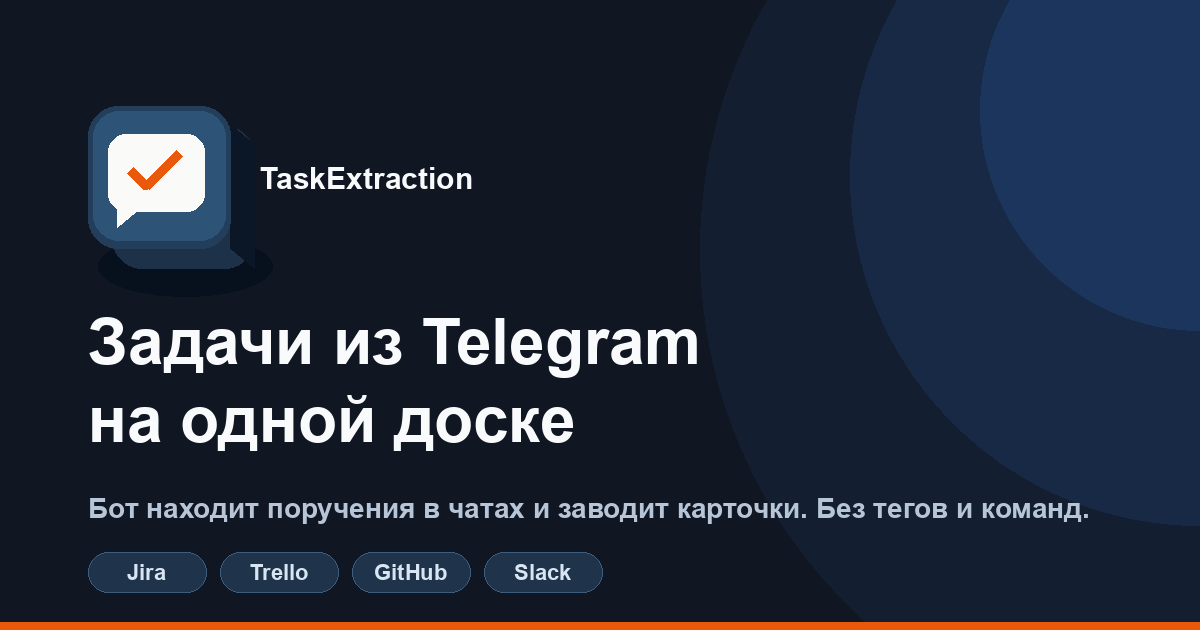
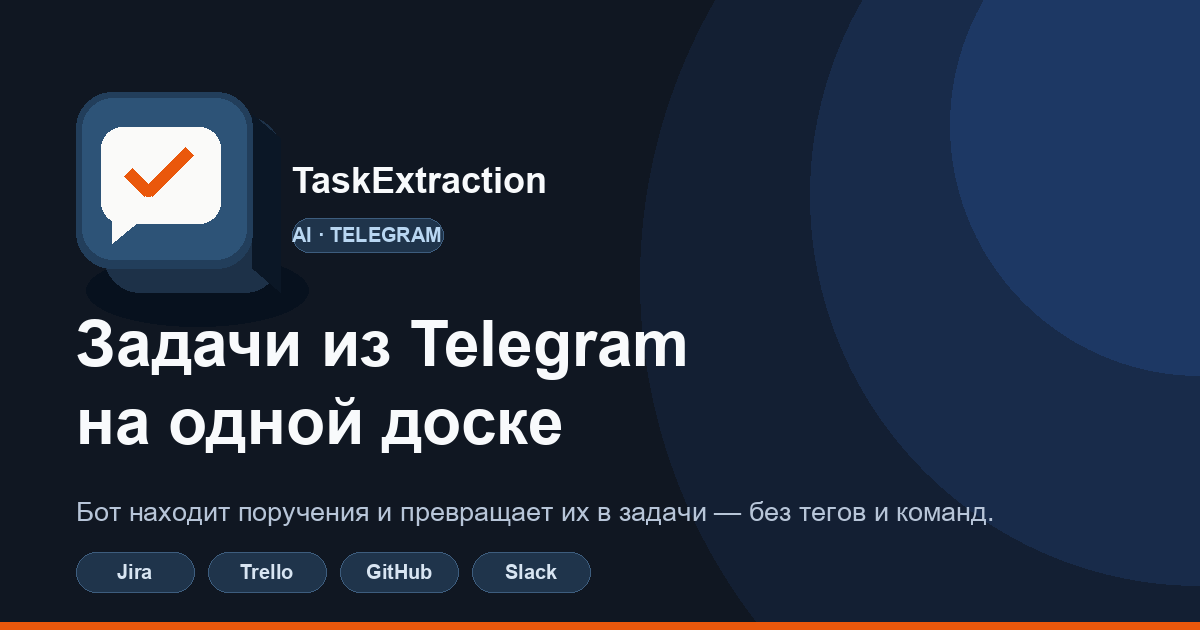
fix: improve Telegram link preview

diff --git a/frontend/seo.config.ts b/frontend/seo.config.ts
@@ -26,7 +26,9 @@ export const SEO = {
     "telegram задачи, извлечение задач, kanban, jira, trello, slack, github issues, llm, поддержка, taskextraction, ai task manager",
 
   welcomePath: "/",
-  ogImagePath: "/og-image.png",
+  // Версия URL заставляет мессенджеры запросить обновлённую карточку, а не взять
+  // старый вариант из собственного кэша.
+  ogImagePath: "/og-image.png?v=2",
   ogImageWidth: 1200,
   ogImageHeight: 630,
   ogImageAlt: "TaskExtraction: задачи из Telegram на одной доске",

diff --git a/frontend/src/pages/LandingPage.tsx b/frontend/src/pages/LandingPage.tsx
@@ -106,6 +106,7 @@ export function LandingPage({ onTry, onHome }: Props) {
                   {link.label}
                 </a>
               ))}
+              <a href="/blog/">{t.nav.blog}</a>
             </nav>
             <div className="lnd-nav__end">
               <ThemeSwitch className="lnd-theme" />
@@ -166,6 +167,7 @@ export function LandingPage({ onTry, onHome }: Props) {
           <span>
             © {new Date().getFullYear()} {t.footer.rights}
           </span>
+          <a href="/blog/">{t.nav.blog}</a>
           <a href="/privacy">{t.footer.privacy}</a>
         </footer>
       </div>

diff --git a/frontend/src/i18n/locales/landing.ru.ts b/frontend/src/i18n/locales/landing.ru.ts
@@ -4,6 +4,7 @@ export const landingRu = {
     example: "Пример",
     setup: "Подключение",
     faq: "Вопросы",
+    blog: "Блог",
     homeTitle: "На главную",
   },
   cta: {

diff --git a/frontend/src/i18n/locales/landing.en.ts b/frontend/src/i18n/locales/landing.en.ts
@@ -6,6 +6,7 @@ export const landingEn: LandingMessages = {
     example: "Example",
     setup: "Setup",
     faq: "Questions",
+    blog: "Blog",
     homeTitle: "Home",
   },
   cta: {

diff --git a/frontend/scripts/generate-og-image.py b/frontend/scripts/generate-og-image.py
@@ -1,5 +1,5 @@
 #!/usr/bin/env python3
-"""Генерирует public/og-image.png (1200×630) для Open Graph / Telegram / WhatsApp."""
+"""Генерирует чёткое public/og-image.png (1200×630) для превью ссылок."""
 
 from pathlib import Path
 
@@ -9,15 +9,23 @@ W, H = 1200, 630
 OUT = Path(__file__).resolve().parent.parent / "public" / "og-image.png"
 
 FONT_CANDIDATES = [
-    "/System/Library/Fonts/Supplemental/Arial Bold.ttf",
-    "/System/Library/Fonts/Helvetica.ttc",
+    # font-dejavu устанавливается в Docker-образ. У него есть кириллица, в отличие
+    # от стандартного bitmap fallback Pillow, который превращает её в квадраты.
     "/usr/share/fonts/truetype/dejavu/DejaVuSans-Bold.ttf",
     "/usr/share/fonts/truetype/dejavu/DejaVuSans.ttf",
+    "/System/Library/Fonts/Supplemental/Arial Bold.ttf",
+    "/System/Library/Fonts/Supplemental/Arial Unicode.ttf",
+    "/System/Library/Fonts/Helvetica.ttc",
 ]
 
 
 def load_font(size: int, bold: bool = False) -> ImageFont.FreeTypeFont | ImageFont.ImageFont:
-    paths = FONT_CANDIDATES if bold else FONT_CANDIDATES[2:] + FONT_CANDIDATES[:2]
+    paths = FONT_CANDIDATES if bold else [
+        "/usr/share/fonts/truetype/dejavu/DejaVuSans.ttf",
+        "/System/Library/Fonts/Supplemental/Arial Unicode.ttf",
+        "/System/Library/Fonts/Supplemental/Arial.ttf",
+        *FONT_CANDIDATES,
+    ]
     for path in paths:
         p = Path(path)
         if p.exists():
@@ -32,8 +40,8 @@ def main() -> None:
     img = Image.new("RGB", (W, H), "#101722")
     draw = ImageDraw.Draw(img)
 
-    # Subtle depth behind the card, matching the layered 3D app icon.
-    for radius, alpha in ((500, 18), (350, 26), (220, 34)):
+    # Мягкая глубина фона в стилистике 3D-иконки приложения.
+    for radius, alpha in ((560, 20), (390, 30), (250, 38)):
         glow = Image.new("RGBA", (W, H), (0, 0, 0, 0))
         glow_draw = ImageDraw.Draw(glow)
         glow_draw.ellipse((W - radius, -radius // 2, W + radius, radius * 1.5), fill=(59, 130, 246, alpha))
@@ -41,35 +49,37 @@ def main() -> None:
         draw = ImageDraw.Draw(img)
 
     # Static rendition of AppIcon3D: back tile, front tile, bubble and check.
-    x, y, s = 88, 106, 142
-    draw.ellipse((x + 10, y + 130, x + s + 42, y + s + 48), fill="#07111e")
-    draw.rounded_rectangle((x + 24, y + 20, x + s + 24, y + s + 20), radius=30, fill="#1d3148")
-    draw.polygon([(x + s, y + 18), (x + s + 24, y + 38), (x + s + 24, y + s + 20), (x + s, y + s)], fill="#0b1726")
-    draw.rounded_rectangle((x, y, x + s, y + s), radius=30, fill="#223e5b")
-    draw.rounded_rectangle((x + 5, y + 5, x + s - 5, y + s - 8), radius=26, fill="#2d5377")
-    draw.rounded_rectangle((x + 20, y + 28, x + 116, y + 105), radius=18, fill="#fafaf9")
-    draw.polygon([(x + 29, y + 94), (x + 29, y + 121), (x + 53, y + 101)], fill="#fafaf9")
-    draw.line([(x + 42, y + 64), (x + 58, y + 80), (x + 91, y + 47)], fill="#ea580c", width=9, joint="curve")
+    x, y, s = 76, 92, 176
+    draw.ellipse((x + 10, y + 162, x + s + 56, y + s + 58), fill="#07111e")
+    draw.rounded_rectangle((x + 28, y + 24, x + s + 28, y + s + 24), radius=36, fill="#1d3148")
+    draw.polygon([(x + s, y + 22), (x + s + 28, y + 46), (x + s + 28, y + s + 24), (x + s, y + s)], fill="#0b1726")
+    draw.rounded_rectangle((x, y, x + s, y + s), radius=36, fill="#223e5b")
+    draw.rounded_rectangle((x + 6, y + 6, x + s - 6, y + s - 9), radius=31, fill="#2d5377")
+    draw.rounded_rectangle((x + 25, y + 35, x + 144, y + 131), radius=21, fill="#fafaf9")
+    draw.polygon([(x + 36, y + 117), (x + 36, y + 151), (x + 65, y + 127)], fill="#fafaf9")
+    draw.line([(x + 52, y + 80), (x + 72, y + 100), (x + 113, y + 59)], fill="#ea580c", width=11, joint="curve")
 
     title_font = load_font(64, bold=True)
-    brand_font = load_font(30, bold=True)
-    body_font = load_font(28)
-    tag_font = load_font(22, bold=True)
+    brand_font = load_font(36, bold=True)
+    body_font = load_font(27)
+    tag_font = load_font(20, bold=True)
 
-    draw.text((260, 178), "TaskExtraction", fill="#f8fafc", font=brand_font, anchor="lm")
+    draw.text((292, 180), "TaskExtraction", fill="#f8fafc", font=brand_font, anchor="lm")
+    draw.rounded_rectangle((292, 218, 443, 252), radius=17, fill="#1f344b", outline="#3d5d7e")
+    draw.text((367, 235), "AI · TELEGRAM", fill="#b9d7f2", font=tag_font, anchor="mm")
 
-    draw.text((88, 306), "Задачи из Telegram", fill="#f8fafc", font=title_font)
-    draw.text((88, 384), "на одной доске", fill="#f8fafc", font=title_font)
+    draw.text((76, 308), "Задачи из Telegram", fill="#f8fafc", font=title_font)
+    draw.text((76, 386), "на одной доске", fill="#f8fafc", font=title_font)
 
     draw.text(
-        (88, 492),
-        "Бот находит поручения в чатах и заводит карточки. Без тегов и команд.",
+        (76, 492),
+        "Бот находит поручения и превращает их в задачи — без тегов и команд.",
         fill="#b7c5d8",
         font=body_font,
     )
 
     for i, label in enumerate(("Jira", "Trello", "GitHub", "Slack")):
-        x = 88 + i * 132
+        x = 76 + i * 132
         draw.rounded_rectangle((x, 552, x + 118, 592), radius=20, fill="#1f344b", outline="#3d5d7e")
         draw.text((x + 59, 572), label, fill="#d8e5f2", font=tag_font, anchor="mm")
 
